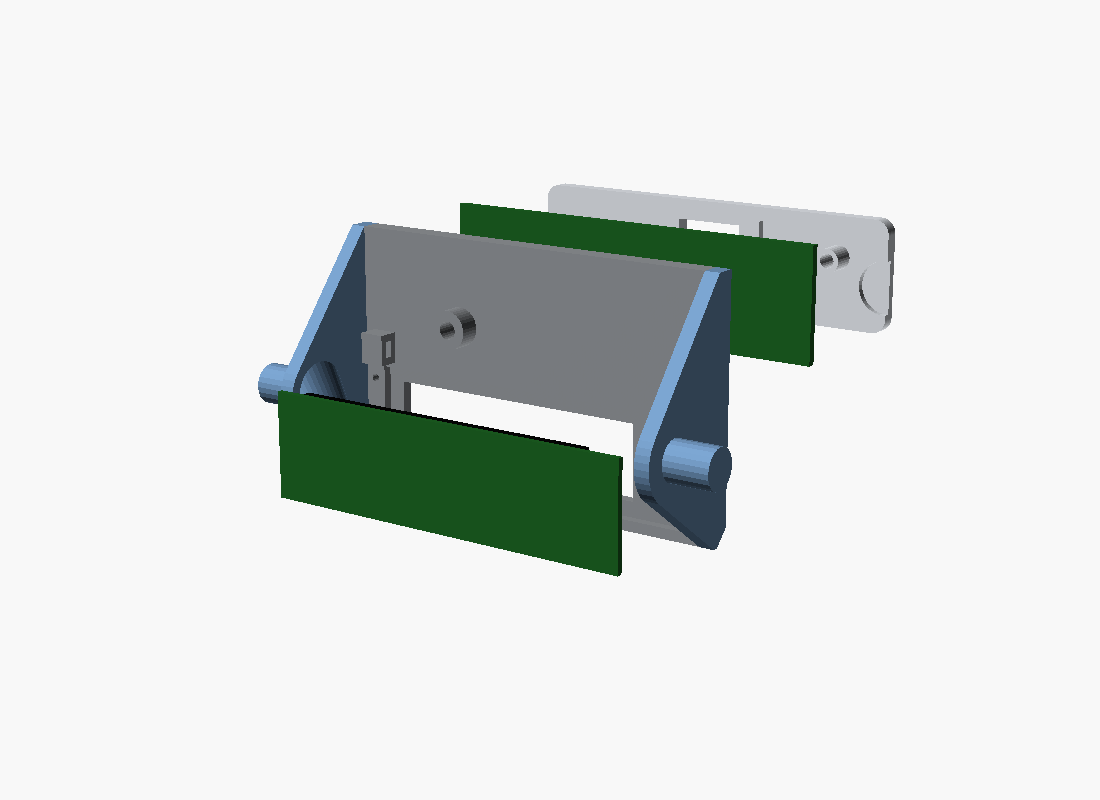
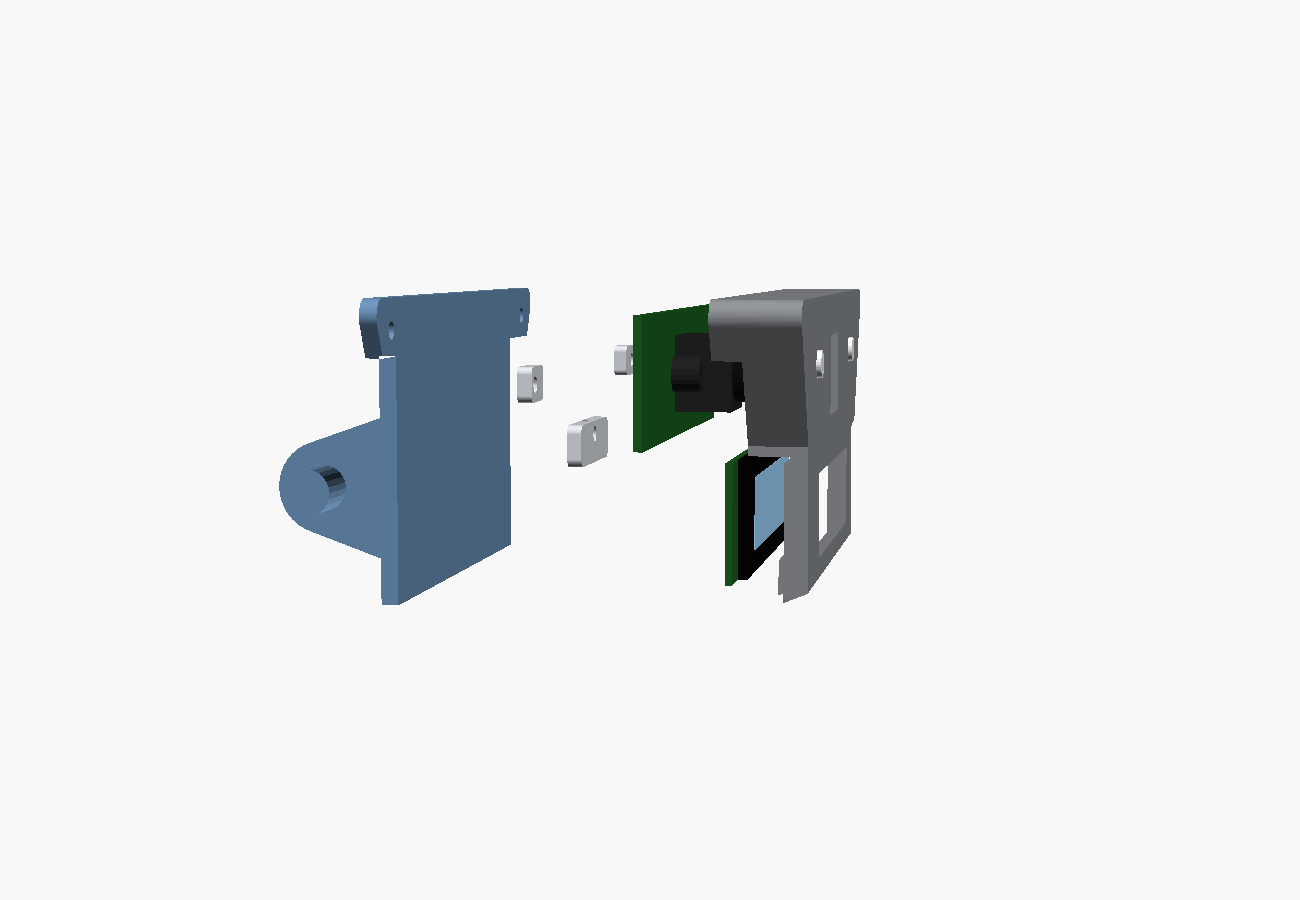
head_v6: two-piece head (front: camera hole, OLED window, eyes; back: pivot arms), straps for camera and OLED, 18 mm deep

Changed region(s): [[0.2164, 0.2188, 0.8345, 0.7188]]

diff --git a/hardware/cad/docs/build_photos/README.md b/hardware/cad/docs/build_photos/README.md
@@ -8,7 +8,7 @@ Renders (`NN_render_*.png`) come from `parts/base_v4.scad` (`part = "head_view"`
 
 ### Step 1: camera on the camframe ✅
 
-Part: `base_camframe_v4.3mf` (superseded by `base_head_v5.3mf`, see step 2). The webcam PCB (Logitech 210-002028-003) is fitted to the camframe: lens in its square pocket, glass eyes in the D3 and D6 seats,
+Part: `base_camframe_v4.3mf` (superseded by the two-piece head, see step 2). The webcam PCB (Logitech 210-002028-003) is fitted to the camframe: lens in its square pocket, glass eyes in the D3 and D6 seats,
 mic cans in their pockets. One side is held by an M2.5 x 12 bolt through the edge slot, the mic side is hot-glued.
 
 ![Camera board, rear](01_camera_board_rear.jpg)
@@ -19,30 +19,35 @@ mic cans in their pockets. One side is held by an M2.5 x 12 bolt through the edg
 
 ## Next
 
-### Step 2: head: insert, OLED, camera ⏭
+### Step 2: head: front piece, back piece, OLED, camera ⏭
 
-**Part (in `out/`):** `base_head_v5.3mf` — the new one-piece head (camera frame, visor, flared sides, plate, arms and axle stubs). It replaces `base_head_v4.3mf` and `base_camframe_v4.3mf`; do not use those two or `base_plate_v4.3mf` (an old coupon).
-Print it front face down, with tree supports under the lower plate and arms. Not printed yet.
-**Hardware:** the camera on its camframe, the OLED (2.08", GME25664-65), 1 x M2.5 heat-set insert,
-4 x M2 short self-tapping screws, 1 x **M2.5 x 16** screw, 1 x M3 heat-set insert, soldering iron, a zip tie.
+**Parts (in `out/`):** `base_head_front_v6.3mf` (print front face down, no supports), `base_head_back_v6.3mf` (print front face down, tree supports under the axle stubs and the crank bracket),
+`base_head_straps_v6.3mf` (2 camera straps + 1 OLED strap, flat). They replace `base_head_v4`, `base_camframe_v4`, `base_head_v5` and `base_plate_v4`; do not print those. Not printed yet.
+**Hardware:** the camera with its glass eyes, the OLED (2.08", GME25664-65), 2 x M2.5 heat-set inserts (front piece), 1 x M3 heat-set insert (crank bracket on the back piece's left arm),
+2 x **M2.5 x 10** (joint), 2 x **M2 x 6** (camera straps), 1 x **M2 x 5** (OLED strap), all M2 self-tapping into the printed pilot holes.
 **Nothing more to print for this step.**
 
 ![Head from the front](03_render_head_front.png)
-*03: the finished head from the front: camera frame on the plate, the OLED window below it.*
+*03: front piece from the front: camera hole above the OLED window, the two eye holes (glass domes), visor on top.*
 
 ![Head from the rear](04_render_head_rear.png)
-*04: the head from the rear. The M2.5 boss in the middle, the zip-tie tab at the left, the OLED board across the bottom.*
+*04: the assembled head from the rear: back piece with its two ears (bolts), pivot arms and axle stubs.*
+
+![Open rear](06_render_head_open_rear.png)
+*06: back piece off: camera board held by a strap at each end, OLED below it, rim along its bottom edge, the two joint bosses in the top corners.*
 
 ![Exploded](05_render_head_exploded.png)
-*05: exploded, from the rear: OLED, head (`base_head_v4.3mf`), camera board, camframe.*
+*05: exploded, seen from the right: back piece, straps, camera board, OLED, front piece.*
 
-1. **Inserts.** M2.5 insert into the boss on the rear of the plate, pressed in from the boss's rear end. M3 insert into the crank bracket on the left arm, pressed in from its free face. Check each with a screw.
-2. **OLED.** Glass into the pocket from the rear (the front lip keeps it in), board flat on the plate, 4 x M2 into the corner pilot holes. Do not overtighten. Lead the wires down and zip-tie them at the tab on the head's rear, above the board's left end.
-3. **Camera.** The camera slides up from below into the head, lens cube into the open lens slot, glass eyes pressed into their seats from the front. Put the **M2.5 x 16** screw through the frame, the board's edge slot, into the head's insert; it pins the board (about 0.3 mm of play front to back).
-   The frame's rear face stands 7.0 mm off the plate, so a 12 mm screw would barely reach the insert; use 16 or 18.
-4. **Check.** The camera does not rock, the OLED glass is flush in its window, the USB cable has a free run out of the frame bottom.
+1. **Inserts.** M2.5 inserts into the two joint bosses (top corners of the front piece, pressed in from the rear end). M3 insert into the crank bracket on the back piece's left arm.
+2. **OLED.** Glass into the pocket from behind; the board's bottom edge goes under the rim (the lip along the bottom), then the board lies flat. Put the OLED strap over its top edge, **M2 x 5**, snug only.
+   There are 9.8 mm behind the board for the Dupont plugs; the wires leave through the open bottom.
+3. **Camera.** Lens cube through the square hole from behind, glass eyes pressed into their seats from the front (spigots are behind the board's two LEDs). One camera strap at each end of the board (**M2 x 6**).
+   The USB cable leaves through the open bottom.
+4. **Close.** Back piece on, its two ears onto the joint bosses, **2 x M2.5 x 10** from behind.
+5. **Check.** Camera does not rock, OLED is flat against its window, cable has a free run out of the bottom.
 
-Add your photos here: `06_head_oled_fitted.jpg`, `07_head_camera_fitted.jpg`.
+Add your photos here: `07_front_piece_printed.jpg`, `08_oled_fitted.jpg`, `09_camera_fitted.jpg`, `10_head_closed.jpg`.
 
 ## After that (not detailed yet)
 
